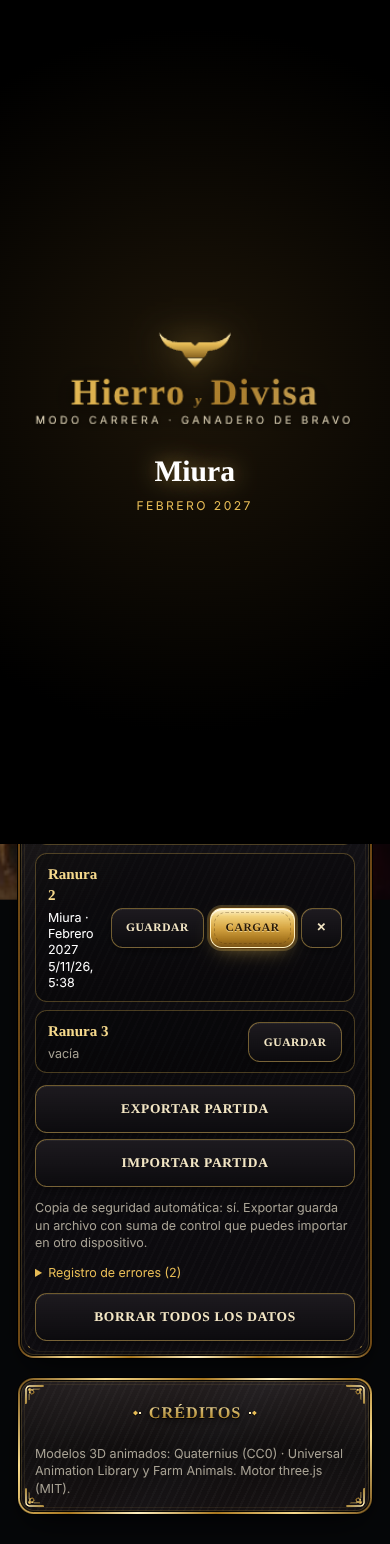
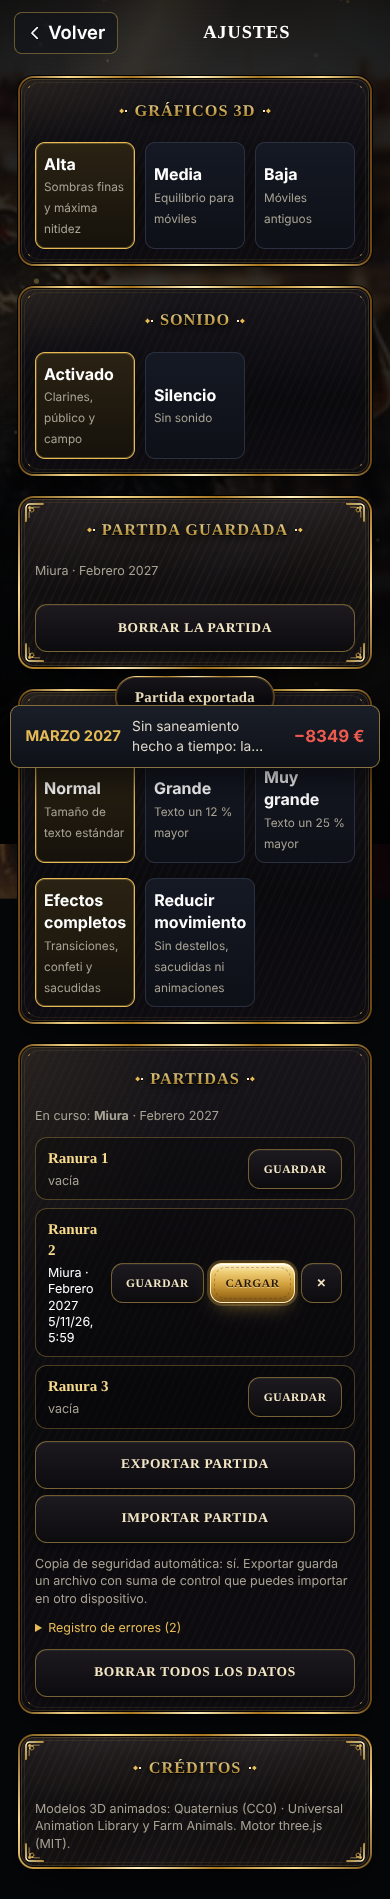
Fase 2: panel de mando (avisos, agenda, cuentas), bus de eventos y accesibilidad
Claude-Session: https://claude.ai/code/session_01UEz6UKm7eRVhhfCF1Qj26a

diff --git a/js/panel.js b/js/panel.js
@@ -1,0 +1,53 @@
+/* ===================== FASE 2 · PANEL DE MANDO, EVENTOS Y ACCESIBILIDAD =====================
+   - Bus de eventos sencillo (Bus.on / Bus.emit) para que los módulos se enteren de lo que pasa sin tocarse entre sí.
+   - Inicio con agenda de próximos festejos, centro de avisos y resumen económico de los últimos meses.
+   - Ajustes de accesibilidad: tamaño de texto y reducir movimiento/efectos. */
+const Bus={h:{},on(ev,f){(this.h[ev]=this.h[ev]||[]).push(f)},emit(ev,d){for(const f of this.h[ev]||[])try{f(d)}catch(e){try{errLog('Bus '+ev+': '+e.message,'bus')}catch(e2){}}}};
+{const _s=save;save=function(){const r=_s.apply(this,arguments);if(r!==false)Bus.emit('SAVE_COMPLETED');return r}}
+{const _a=advance;advance=function(){const m0=S&&S.money;const r=_a.apply(this,arguments);if(S)Bus.emit('MONTH_CLOSED',{dinero:S.money-m0});return r}}
+{const _c=celebrar;celebrar=function(o){const r=_c.apply(this,arguments);Bus.emit('EVENT_COMPLETED',{tipo:'corrida',id:o.id,res:r});return r}}
+if(typeof cResolver==='function'){const _r=cResolver;cResolver=function(o){const r=_r.apply(this,arguments);if(r)Bus.emit('EVENT_COMPLETED',{tipo:'corro',id:o.id,res:r});return r}}
+/* ---------- avisos ---------- */
+function avisos(){if(!S)return [];const A=[],c=campo(),ab=absNow();const add=(nivel,txt,acc,ico)=>A.push({nivel,txt,acc,ico});
+ if(S.porVer&&S.porVer.length)add('oro',`${S.porVer.length} ${S.porVer.length>1?'corridas listas':'corrida lista'} para ver`,`enterPlaza(${S.porVer[0]})`,'plazaI');
+ try{const p=calPend();if(p.length)add('rojo',`Hoy: ${p[0].t} (${p[0].s})`,'calEventoHoy()','cal')}catch(e){}
+ const nuevas=S.offers.filter(o=>o.st==='nueva');const urg=nuevas.filter(o=>o.abs-ab<=1);
+ if(urg.length)add('rojo',`${urg.length} ${urg.length>1?'ofertas caducan':'oferta caduca'} este mes sin responder`,"go('ofertas')",'mon');else if(nuevas.length)add('',`${nuevas.length} ofertas sin responder`,"go('ofertas')",'mon');
+ const sinRes=S.offers.filter(o=>o.st==='aceptada'&&(!o.toros||o.toros.length<(o.n||1)));if(sinRes.length)add('rojo',`${sinRes.length} ${sinRes.length>1?'corridas aceptadas':'corrida aceptada'} sin todos los toros reseñados`,"go('ofertas')",'toro');
+ const les=c.filter(a=>a.lesion>0||a.salud<45);if(les.length)add('',`${les.length} ${les.length>1?'reses lesionadas o con poca salud':'res lesionada o con poca salud'}`,"go('tareas')",'tareas');
+ try{const cap=capacidad(),n=c.length;if(n>cap)add('rojo',`Finca saturada: ${n} cabezas para ${cap} de capacidad`,'obras()','finca');else if(n>cap*.92)add('',`Finca casi llena: ${n}/${cap} cabezas`,'obras()','finca')}catch(e){}
+ try{const gasto=2500+10*c.length+mantenimiento();if(S.money<gasto*2)add('rojo',`Liquidez baja: ${eur(S.money)} (gasto mensual ≈ ${eur(gasto)})`,"go('mercado')",'monG')}catch(e){}
+ if(!c.some(a=>a.role==='semental'))add('rojo','No tienes semental: la paridera dependerá de uno prestado',"go('mercado')",'toroG');
+ if(S.month>=9&&c.some(a=>!a.herrado))add('',`${c.filter(a=>!a.herrado).length} becerros sin herrar antes de fin de año`,"go('tareas')",'martillo');
+ if(S.conf<35)add('rojo',`La propiedad pierde la confianza (${Math.round(S.conf)} %)`,"go('palmares')",'perfil');
+ const C=S.corro;if(C){const cn=C.of.filter(o=>o.st==='nueva').length;if(cn)add('',`Corro: ${cn} contratos de pueblos sin responder`,"setCasa('corro');UI.tab='c_con';render()",'vaca')}
+ return A}
+/* ---------- agenda ---------- */
+function agenda(n){const out=[],ab=absNow(),d=calDay();for(let a=ab;a<ab+4&&out.length<n;a++){for(const e of calEventos(a)){if(a===ab&&e.d<d)continue;if(e.done)continue;out.push({...e,abs:a});if(out.length>=n)break}}return out}
+/* ---------- economía ---------- */
+function ecoMeses(n){return (S.news||[]).slice(0,n).reverse().map(x=>({d:x.d,inc:x.inc||0,cost:x.cost||0}))}
+function panelHTML(){const A=avisos(),G=agenda(4),E=ecoMeses(6);const ab=absNow();
+ const icon=k=>ICO[k]?ICO[k].replace('<svg','<svg class="pnI"'):'';
+ const ag=G.length?G.map(e=>{const y=Math.floor(e.abs/12),m=e.abs%12,dd=new Date(y,m,e.d),hoy=e.abs===ab&&e.d===calDay();
+  return `<button class="agE ${e.k}" onclick="${e.k==='feria'?'calAbrir()':hoy?'calEventoHoy()':'calAbrir()'}"><span class="agD"><b>${e.d}</b><small>${MESES[m].slice(0,3)}</small></span><span class="agT"><b>${esc(e.t)}</b><small>${esc(e.s)}${hoy?' · hoy':` · ${DSEML[dd.getDay()]}`}</small></span><i class="ce ${e.k}"></i></button>`}).join(''):'<small class="muted">Sin festejos a la vista. Acepta ofertas o contratos de pueblos.</small>';
+ const mx=Math.max(1,...E.map(x=>Math.max(x.inc,x.cost)));
+ const eco=E.length?`<div class="ecoG">${E.map(x=>`<div class="ecoC" title="${esc(x.d)}"><div class="ecoB"><i class="in" style="height:${Math.round(x.inc/mx*100)}%"></i><i class="out" style="height:${Math.round(x.cost/mx*100)}%"></i></div><small>${esc(x.d.slice(0,3))}</small></div>`).join('')}</div>
+  <div class="ecoK"><span><i class="in"></i>Ingresos ${eur(E.reduce((s,x)=>s+x.inc,0))}</span><span><i class="out"></i>Gastos ${eur(E.reduce((s,x)=>s+x.cost,0))}</span><b class="${E.reduce((s,x)=>s+x.inc-x.cost,0)>=0?'pos':'neg'}">${eur(E.reduce((s,x)=>s+x.inc-x.cost,0))}</b></div>`:'<small class="muted">Las cuentas aparecerán al cerrar el primer mes.</small>';
+ return `<section class="sect pnSect"><header><h2>Avisos</h2></header>${A.length?`<div class="pnAv">${A.slice(0,6).map(a=>`<button class="pnA ${a.nivel}" onclick="${a.acc}">${icon(a.ico)}<span>${esc(a.txt)}</span>${ICO.chev}</button>`).join('')}</div>`:'<div class="pnOk">Todo en orden en la ganadería.</div>'}</section>
+ <section class="sect"><header><h2>Agenda</h2></header><div class="agL">${ag}</div><button class="btn sm" onclick="calAbrir()">Abrir el calendario</button></section>
+ <section class="sect"><header><h2>Cuentas</h2><span class="sp"></span><small class="muted">últimos meses</small></header><div class="card eco">${eco}</div></section>`}
+const _renderInicioP=renderInicio;
+renderInicio=function(el){_renderInicioP.apply(this,arguments);try{if(!S)return;const st=el.querySelector('.stack')||el;const ref=st.querySelector('.wid');const w=document.createElement('div');w.className='pnWrap';w.innerHTML=panelHTML();if(ref)ref.after(w);else st.prepend(w)}catch(e){errLog('panel: '+e.message,'panel')}};
+/* ---------- accesibilidad ---------- */
+const ACC=(()=>{try{return JSON.parse(localStorage.getItem('hd-acc')||'{}')}catch(e){return {}}})();
+function accApply(){document.documentElement.classList.toggle('txtL',ACC.txt==='l');document.documentElement.classList.toggle('txtXL',ACC.txt==='xl');document.documentElement.classList.toggle('calma',!!ACC.calma)}
+function accSet(k,v){ACC[k]=v;try{localStorage.setItem('hd-acc',JSON.stringify(ACC))}catch(e){}accApply();render()}
+accApply();
+if(typeof shake==='function'){const _sh=shake;shake=function(){if(ACC.calma)return;return _sh.apply(this,arguments)}}
+if(typeof confetti==='function'){const _cf=confetti;confetti=function(){if(ACC.calma)return;return _cf.apply(this,arguments)}}
+if(typeof flash==='function'){const _fl=flash;flash=function(){if(ACC.calma)return;return _fl.apply(this,arguments)}}
+const _startScreenAcc=startScreen;
+startScreen=function(){let h=_startScreenAcc.apply(this,arguments);if(MENU.v!=='ajustes')return h;
+ const sec=`<section class="sect card goldline"><header><h2>Accesibilidad</h2></header><div class="seg">${[['','Normal','Tamaño de texto estándar'],['l','Grande','Texto un 12 % mayor'],['xl','Muy grande','Texto un 25 % mayor']].map(([k,n,d])=>`<button aria-pressed="${(ACC.txt||'')===k}" onclick="accSet('txt','${k}')"><b>${n}</b><span>${d}</span></button>`).join('')}</div>
+  <div class="seg"><button aria-pressed="${!ACC.calma}" onclick="accSet('calma',false)"><b>Efectos completos</b><span>Transiciones, confeti y sacudidas</span></button><button aria-pressed="${!!ACC.calma}" onclick="accSet('calma',true)"><b>Reducir movimiento</b><span>Sin destellos, sacudidas ni animaciones</span></button></div></section>`;
+ const i=h.indexOf('<section class="sect card goldline svSect">');return i>0?h.slice(0,i)+sec+h.slice(i):h};

diff --git a/sw.js b/sw.js
@@ -1,6 +1,6 @@
 // Caché para jugar sin conexión una vez cargado
-const V='hierro-divisa-v24';
-const ARCHIVOS=['./', 'index.html', 'css/estilo.css', 'js/juego.js', 'js/mundo3d.js', 'js/carrera.js', 'js/musica.js', 'js/sonido.js', 'js/corro.js', 'js/calle.js', 'js/calle2.js', 'js/calle3.js', 'js/gfx.js', 'js/extras.js', 'js/casa.js', 'js/finca2.js', 'js/lidia.js', 'js/fx.js', 'js/menu.js', 'js/modelos.js', 'js/torero.js', 'js/estabilidad.js', 'js/navbar.js', 'js/calendario.js', 'js/texturas.js', 'modelos/natura.gltf.json', 'img/nav-toro.png', 'img/nav/c_con.png', 'img/nav/c_ini.png', 'img/nav/c_inv.png', 'img/nav/c_mer.png', 'img/nav/c_res.png', 'img/nav/camada.png', 'img/nav/drapeL.png', 'img/nav/drapeR.png', 'img/nav/finca.png', 'img/nav/inicio.png', 'img/nav/mercado.png', 'img/nav/ofertas.png', 'img/nav/palmares.png', 'img/nav/tareas.png', 'img/tex/albero.jpg', 'img/tex/asfalto-n.jpg', 'img/tex/asfalto.jpg', 'img/tex/detalle.jpg', 'img/tex/tierra-n.jpg', 'js/libs/three.min.js', 'js/libs/GLTFLoader.js', 'js/libs/SkeletonUtils.js', 'modelos/persona.glb', 'modelos/caballo.glb', 'manifest.webmanifest', 'img/cabeza.jpg', 'img/calle.jpg', 'img/calle-nit.jpg', 'img/cuerno.jpg', 'img/dehesa.jpg', 'img/hero.jpg', 'img/icono-192.png', 'img/icono-512.png', 'img/palco.jpg', 'img/plaza-1.jpg', 'img/plaza-2.jpg', 'img/toro-cardeno-0.jpg', 'img/toro-cardeno-1.jpg', 'img/toro-cardeno-2.jpg', 'img/toro-cardeno-3.jpg', 'img/toro-cardeno-4.jpg', 'img/toro-cardeno-5.jpg', 'img/toro-cardeno-6.jpg', 'img/toro-cardeno-7.jpg', 'img/toro-castano-0.jpg', 'img/toro-castano-1.jpg', 'img/toro-castano-2.jpg', 'img/toro-castano-3.jpg', 'img/toro-castano-4.jpg', 'img/toro-castano-5.jpg', 'img/toro-castano-6.jpg', 'img/toro-castano-7.jpg', 'img/toro-colorado-0.jpg', 'img/toro-colorado-1.jpg', 'img/toro-colorado-2.jpg', 'img/toro-colorado-3.jpg', 'img/toro-colorado-4.jpg', 'img/toro-colorado-5.jpg', 'img/toro-colorado-6.jpg', 'img/toro-colorado-7.jpg', 'img/toro-jabonero-0.jpg', 'img/toro-jabonero-1.jpg', 'img/toro-jabonero-2.jpg', 'img/toro-jabonero-3.jpg', 'img/toro-jabonero-4.jpg', 'img/toro-jabonero-5.jpg', 'img/toro-jabonero-6.jpg', 'img/toro-jabonero-7.jpg', 'img/toro-negro-0.jpg', 'img/toro-negro-1.jpg', 'img/toro-negro-2.jpg', 'img/toro-negro-3.jpg', 'img/toro-negro-4.jpg', 'img/toro-negro-5.jpg', 'img/toro-negro-6.jpg', 'img/toro-negro-7.jpg', 'img/toro-sombra.jpg'];
+const V='hierro-divisa-v25';
+const ARCHIVOS=['./', 'index.html', 'css/estilo.css', 'js/juego.js', 'js/mundo3d.js', 'js/carrera.js', 'js/musica.js', 'js/sonido.js', 'js/corro.js', 'js/calle.js', 'js/calle2.js', 'js/calle3.js', 'js/gfx.js', 'js/extras.js', 'js/casa.js', 'js/finca2.js', 'js/lidia.js', 'js/fx.js', 'js/menu.js', 'js/modelos.js', 'js/torero.js', 'js/estabilidad.js', 'js/panel.js', 'js/navbar.js', 'js/calendario.js', 'js/texturas.js', 'modelos/natura.gltf.json', 'img/nav-toro.png', 'img/nav/c_con.png', 'img/nav/c_ini.png', 'img/nav/c_inv.png', 'img/nav/c_mer.png', 'img/nav/c_res.png', 'img/nav/camada.png', 'img/nav/drapeL.png', 'img/nav/drapeR.png', 'img/nav/finca.png', 'img/nav/inicio.png', 'img/nav/mercado.png', 'img/nav/ofertas.png', 'img/nav/palmares.png', 'img/nav/tareas.png', 'img/tex/albero.jpg', 'img/tex/asfalto-n.jpg', 'img/tex/asfalto.jpg', 'img/tex/detalle.jpg', 'img/tex/tierra-n.jpg', 'js/libs/three.min.js', 'js/libs/GLTFLoader.js', 'js/libs/SkeletonUtils.js', 'modelos/persona.glb', 'modelos/caballo.glb', 'manifest.webmanifest', 'img/cabeza.jpg', 'img/calle.jpg', 'img/calle-nit.jpg', 'img/cuerno.jpg', 'img/dehesa.jpg', 'img/hero.jpg', 'img/icono-192.png', 'img/icono-512.png', 'img/palco.jpg', 'img/plaza-1.jpg', 'img/plaza-2.jpg', 'img/toro-cardeno-0.jpg', 'img/toro-cardeno-1.jpg', 'img/toro-cardeno-2.jpg', 'img/toro-cardeno-3.jpg', 'img/toro-cardeno-4.jpg', 'img/toro-cardeno-5.jpg', 'img/toro-cardeno-6.jpg', 'img/toro-cardeno-7.jpg', 'img/toro-castano-0.jpg', 'img/toro-castano-1.jpg', 'img/toro-castano-2.jpg', 'img/toro-castano-3.jpg', 'img/toro-castano-4.jpg', 'img/toro-castano-5.jpg', 'img/toro-castano-6.jpg', 'img/toro-castano-7.jpg', 'img/toro-colorado-0.jpg', 'img/toro-colorado-1.jpg', 'img/toro-colorado-2.jpg', 'img/toro-colorado-3.jpg', 'img/toro-colorado-4.jpg', 'img/toro-colorado-5.jpg', 'img/toro-colorado-6.jpg', 'img/toro-colorado-7.jpg', 'img/toro-jabonero-0.jpg', 'img/toro-jabonero-1.jpg', 'img/toro-jabonero-2.jpg', 'img/toro-jabonero-3.jpg', 'img/toro-jabonero-4.jpg', 'img/toro-jabonero-5.jpg', 'img/toro-jabonero-6.jpg', 'img/toro-jabonero-7.jpg', 'img/toro-negro-0.jpg', 'img/toro-negro-1.jpg', 'img/toro-negro-2.jpg', 'img/toro-negro-3.jpg', 'img/toro-negro-4.jpg', 'img/toro-negro-5.jpg', 'img/toro-negro-6.jpg', 'img/toro-negro-7.jpg', 'img/toro-sombra.jpg'];
 self.addEventListener('install',e=>{e.waitUntil(caches.open(V).then(c=>c.addAll(ARCHIVOS)).then(()=>self.skipWaiting()))});
 self.addEventListener('activate',e=>{e.waitUntil(caches.keys().then(k=>Promise.all(k.filter(x=>x!==V).map(x=>caches.delete(x)))).then(()=>self.clients.claim()))});
 self.addEventListener('fetch',e=>{if(e.request.method!=='GET')return;const u=e.request.url,propio=u.startsWith(self.location.origin);

diff --git a/css/estilo.css b/css/estilo.css
@@ -977,3 +977,27 @@ body.calBusy .capWipe,body.calBusy #newsT{display:none !important}
 .svSlot b{font-family:Cinzel,serif;color:#f6d98c}.svSlot small{grid-column:1;line-height:1.3}.svSlot .svB{grid-column:2;grid-row:1/span 2}
 .svB{display:flex;gap:6px;flex-wrap:wrap}.svB .btn{flex:1 1 auto}
 .svErr{font-size:.78rem}.svErr small{display:block;margin:.25rem 0;color:#e3b0a8;word-break:break-word}.svErr summary{cursor:pointer;color:#e6bb55}
+
+/* ===================== FASE 2 · PANEL DE INICIO Y ACCESIBILIDAD ===================== */
+.pnWrap{display:flex;flex-direction:column;gap:1rem}
+.pnAv{display:flex;flex-direction:column;gap:6px}
+.pnA{display:grid;grid-template-columns:22px 1fr 16px;align-items:center;gap:10px;text-align:left;padding:11px 12px;border-radius:12px;border:1px solid rgba(230,187,85,.3);background:linear-gradient(180deg,#17141a,#0a090c);color:#efe2bf;font:500 .86rem/1.3 var(--sans,inherit);cursor:pointer}
+.pnA .pnI,.pnA>svg:first-child{width:20px;height:20px}.pnA>svg:last-child{width:14px;height:14px;opacity:.6}
+.pnA.rojo{border-color:rgba(211,21,47,.65);background:linear-gradient(90deg,rgba(141,11,29,.45),#0a090c 70%)}
+.pnA.oro{border-color:#f6d98c;background:linear-gradient(90deg,rgba(184,134,46,.4),#0a090c 70%)}
+.pnOk{padding:12px;border-radius:12px;border:1px solid rgba(124,207,98,.4);color:#bfe8ad;text-align:center;font-size:.86rem}
+.agL{display:flex;flex-direction:column;gap:6px}
+.agE{display:grid;grid-template-columns:44px 1fr 10px;align-items:center;gap:10px;text-align:left;padding:8px 12px;border-radius:12px;border:1px solid rgba(230,187,85,.25);background:linear-gradient(180deg,#17141a,#0a090c);color:#efe2bf;cursor:pointer}
+.agD{display:flex;flex-direction:column;align-items:center;padding:4px 0;border-radius:8px;background:rgba(230,187,85,.1)}.agD b{font-family:Cinzel,serif;font-size:1.2rem;line-height:1;color:#fff2c4}.agD small{font-size:.6rem;text-transform:uppercase;color:#bfa77a}
+.agT{display:flex;flex-direction:column;min-width:0}.agT b{font-size:.92rem;white-space:nowrap;overflow:hidden;text-overflow:ellipsis}.agT small{font-size:.74rem;color:#bfb39c}
+.agE.corrida{border-color:rgba(211,21,47,.5)}.agE.corro{border-color:rgba(241,196,15,.45)}
+.eco{display:flex;flex-direction:column;gap:10px}
+.ecoG{display:grid;grid-auto-flow:column;grid-auto-columns:1fr;gap:8px;height:110px;align-items:end}
+.ecoC{display:flex;flex-direction:column;align-items:center;gap:4px;height:100%}.ecoC small{font-size:.62rem;color:#bfa77a;text-transform:uppercase}
+.ecoB{flex:1;width:100%;display:flex;gap:3px;align-items:flex-end;justify-content:center}.ecoB i{width:42%;border-radius:4px 4px 0 0;min-height:2px}
+.ecoB .in,.ecoK i.in{background:linear-gradient(180deg,#9fd889,#4f8a3c)}.ecoB .out,.ecoK i.out{background:linear-gradient(180deg,#ff7a7a,#8d0b1d)}
+.ecoK{display:flex;flex-wrap:wrap;gap:6px 14px;align-items:center;font-size:.78rem;color:#cfc6b4}.ecoK span{display:inline-flex;align-items:center;gap:5px}.ecoK i{display:inline-block;width:10px;height:10px;border-radius:3px}
+.ecoK b{margin-left:auto;font-family:Cinzel,serif}.ecoK b.pos{color:#9fd889}.ecoK b.neg{color:#ff8a8a}
+html.txtL{font-size:112%}html.txtXL{font-size:125%}
+html.calma *,html.calma *::before,html.calma *::after{animation-duration:.001s !important;animation-iteration-count:1 !important;transition-duration:.001s !important}
+html.calma .capWipe,html.calma .mFx,html.calma .mSweep{display:none !important}

diff --git a/tests/e2e/fase2.js b/tests/e2e/fase2.js
@@ -1,0 +1,10 @@
+// Fase 2: panel de inicio (avisos, agenda, cuentas), bus de eventos, accesibilidad
+const {chromium}=require('playwright');const BASE=process.env.BASE||'http://localhost:8765/';
+(async()=>{const b=await chromium.launch();const p=await b.newPage({viewport:{width:390,height:844}});const errs=[];p.on('pageerror',e=>errs.push(e.message));await p.route(/fonts\.(googleapis|gstatic)|cdnjs/,r=>r.abort());
+await p.goto(BASE+'index.html');await p.waitForTimeout(700);const R=[];const ok=(k,v)=>{R.push(v.ok);console.log((v.ok?'OK  ':'FAIL')+' '+k+' '+JSON.stringify(v))};
+const ev=await p.evaluate(()=>{localStorage.clear();startReal(0);S.money=900000;const got=[];['SAVE_COMPLETED','MONTH_CLOSED','EVENT_COMPLETED'].forEach(e=>Bus.on(e,()=>got.push(e)));advance();advance();const o=S.offers[0];o.abs=absNow();o.st='aceptada';o.toros=campo().filter(a=>a.sex==='M').slice(0,6).map(a=>a.id);celebrar(o);return {ok:got.includes('SAVE_COMPLETED')&&got.includes('MONTH_CLOSED')&&got.includes('EVENT_COMPLETED'),n:got.length}});ok('bus de eventos',ev);
+const pn=await p.evaluate(()=>{const o=S.offers.find(x=>x.st==='nueva');if(o){o.st='aceptada';o.toros=[]}UI.tab='inicio';render();return {ok:!!document.querySelector('.pnWrap')&&document.querySelectorAll('.pnA').length>0&&document.querySelectorAll('.ecoC').length>0,avisos:[...document.querySelectorAll('.pnA')].map(x=>x.textContent.trim().slice(0,50)),agenda:document.querySelectorAll('.agE').length,meses:document.querySelectorAll('.ecoC').length}});ok('panel de inicio',pn);
+await p.screenshot({path:'docs/qa/capturas/inicio-panel.png',fullPage:true});
+const acc=await p.evaluate(()=>{const f0=parseFloat(getComputedStyle(document.documentElement).fontSize);accSet('txt','xl');const f1=parseFloat(getComputedStyle(document.documentElement).fontSize);accSet('calma',true);const c=document.documentElement.classList.contains('calma');accSet('txt','');accSet('calma',false);return {ok:f1>f0*1.2&&c,f0,f1}});ok('accesibilidad',acc);
+const aj=await p.evaluate(()=>{S=null;MENU.v='ajustes';render();return {ok:document.body.textContent.includes('Accesibilidad')&&!!document.querySelector('.svSect')}});ok('ajustes',aj);
+ok('errores',{ok:!errs.length,errs});console.log('RESULTADO',R.every(Boolean)?'TODO OK':'HAY FALLOS');await b.close()})();

diff --git a/index.html b/index.html
@@ -45,6 +45,7 @@
 <script src="js/calendario.js"></script>
 <script src="js/torero.js"></script>
 <script src="js/estabilidad.js"></script>
+<script src="js/panel.js"></script>
 <script>try{render()}catch(e){}document.getElementById('app').classList.add('ready')</script>
 <script>
 if('serviceWorker' in navigator&&location.protocol==='https:'&&!window.Capacitor){let rec=!!navigator.serviceWorker.controller;navigator.serviceWorker.addEventListener('controllerchange',()=>{if(rec){rec=false;location.reload()}});window.addEventListener('load',()=>{navigator.serviceWorker.register('sw.js',{updateViaCache:'none'}).then(r=>{r.update();setInterval(()=>r.update(),30*60*1000)}).catch(()=>{})})}

diff --git a/docs/ROADMAP_STATUS.md b/docs/ROADMAP_STATUS.md
@@ -26,7 +26,18 @@ Leyenda: ✅ hecho y verificado · 🟡 parcial · ⏳ pendiente · ⛔ bloquead
 | Precaché sin duplicados (−1,7 MB) | R-06 | ✅ | `sw.js` |
 | Prueba de regresión de la corrida arreglada | — | ✅ | `regresion.js`: 0 errores, corrida y juicio OK |
 
-Fases 2–12: ⏳ (ver PDF).
+## Fase 2 · Arquitectura y sistema visual
+| Tarea | Estado | Evidencia |
+|---|---|---|
+| Bus de eventos (`SAVE_COMPLETED`, `MONTH_CLOSED`, `EVENT_COMPLETED`) | ✅ | `tests/e2e/fase2.js`, ADR 001 |
+| Inicio: centro de avisos con acceso directo | ✅ | 10 tipos de aviso (corridas por ver, ofertas que caducan, reseñas incompletas, lesionados, capacidad, liquidez, semental, herradero, confianza, corro) |
+| Inicio: agenda de próximos festejos | ✅ | enlazada con el calendario |
+| Inicio: resumen económico de los últimos meses | ✅ | gráfico ingresos/gastos y saldo neto |
+| Accesibilidad: tamaño de texto y reducir movimiento | ✅ | Ajustes → Accesibilidad |
+| Tema visual de gala unificado | ✅ | hecho antes de la hoja de ruta |
+| Módulos ES / separación completa de capas | ⏳ | aplazado (ADR 001) |
+
+Fases 3–12: ⏳ (ver PDF).
 
 ## Peticiones del propietario en cola
 - Toro de Tripo3D (enlace del 5 nov): pendiente de que el propietario exporte el GLB y confirme la licencia de su plan.

diff --git a/docs/DECISIONS/001-bus-de-eventos.md b/docs/DECISIONS/001-bus-de-eventos.md
@@ -1,0 +1,7 @@
+# ADR 001 · Bus de eventos en lugar de reescribir la arquitectura
+
+**Contexto.** El juego son ~25 scripts clásicos con estado global y ~120 funciones globales envueltas en cadena. La hoja de ruta (cap. 04) pide separar dominio, UI, 3D y persistencia, pero prohíbe rehacer el juego desde cero o perder funciones.
+
+**Decisión.** Mantener los scripts clásicos (sin compilador ni módulos ES) e introducir `Bus.on/emit` (`js/panel.js`) con eventos `SAVE_COMPLETED`, `MONTH_CLOSED`, `EVENT_COMPLETED`. Las funciones nuevas se suscriben al bus en vez de añadir otra envoltura de `render`/`advance`. El guardado queda centralizado en `js/estabilidad.js`.
+
+**Consecuencias.** Sin riesgo para las partidas ni para GitHub Pages. La migración a módulos ES (Vite) queda como posible paso futuro, solo si una prueba demuestra que no rompe Pages, el APK ni el modo sin conexión.

diff --git a/CHANGELOG.md b/CHANGELOG.md
@@ -1,5 +1,10 @@
 # Cambios
 
+## Fase 2 · panel de mando y accesibilidad
+- Inicio con avisos (lo urgente en rojo), agenda de festejos y gráfico de cuentas.
+- Ajustes → Accesibilidad: texto grande o muy grande y modo «reducir movimiento».
+- Bus de eventos interno para que las funciones nuevas no se pisen.
+
 ## Fase 1 · estabilidad y guardado (rama `desarrollo`)
 - El 3D ya no depende de internet: three.js va dentro del juego.
 - Se acabó la fuga de memoria al entrar y salir de la finca, la plaza o la calle.
